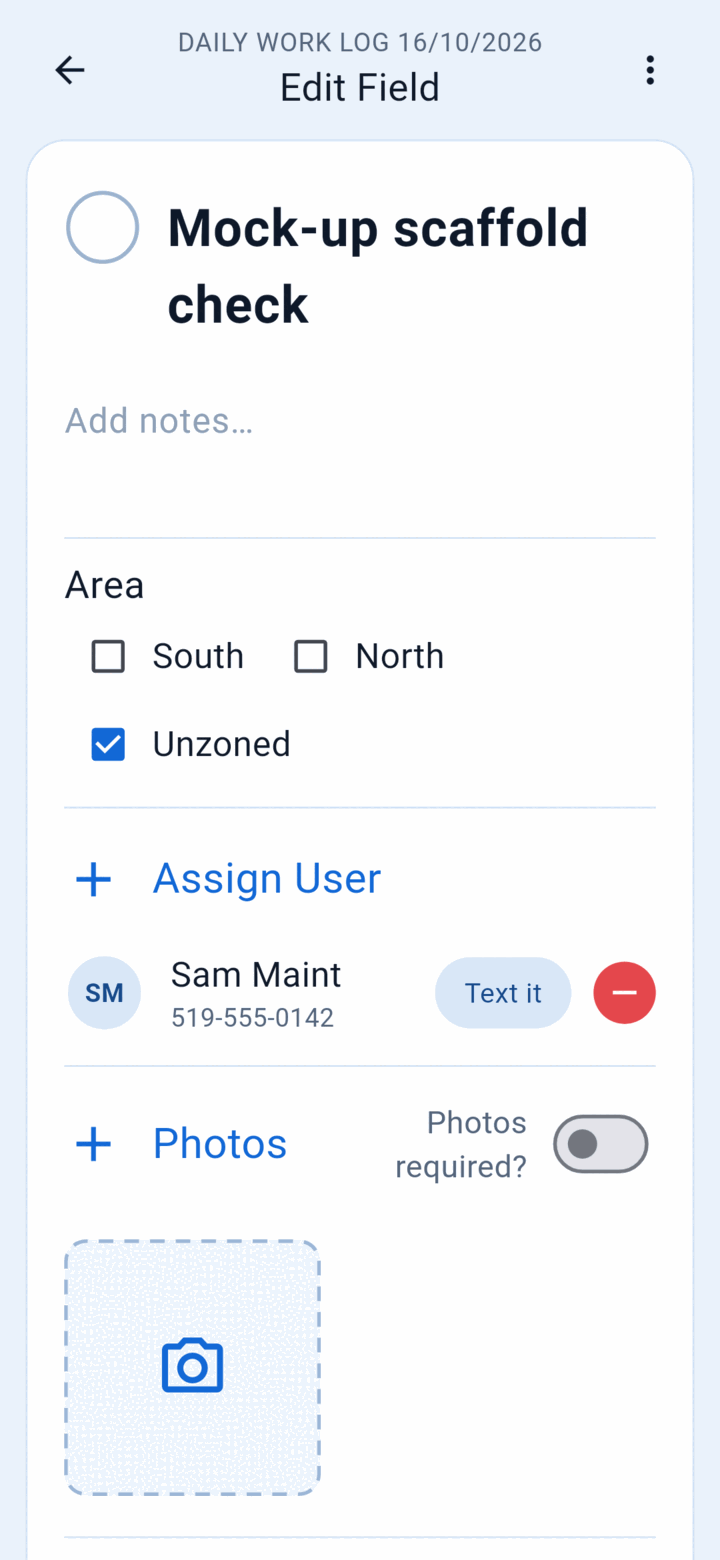
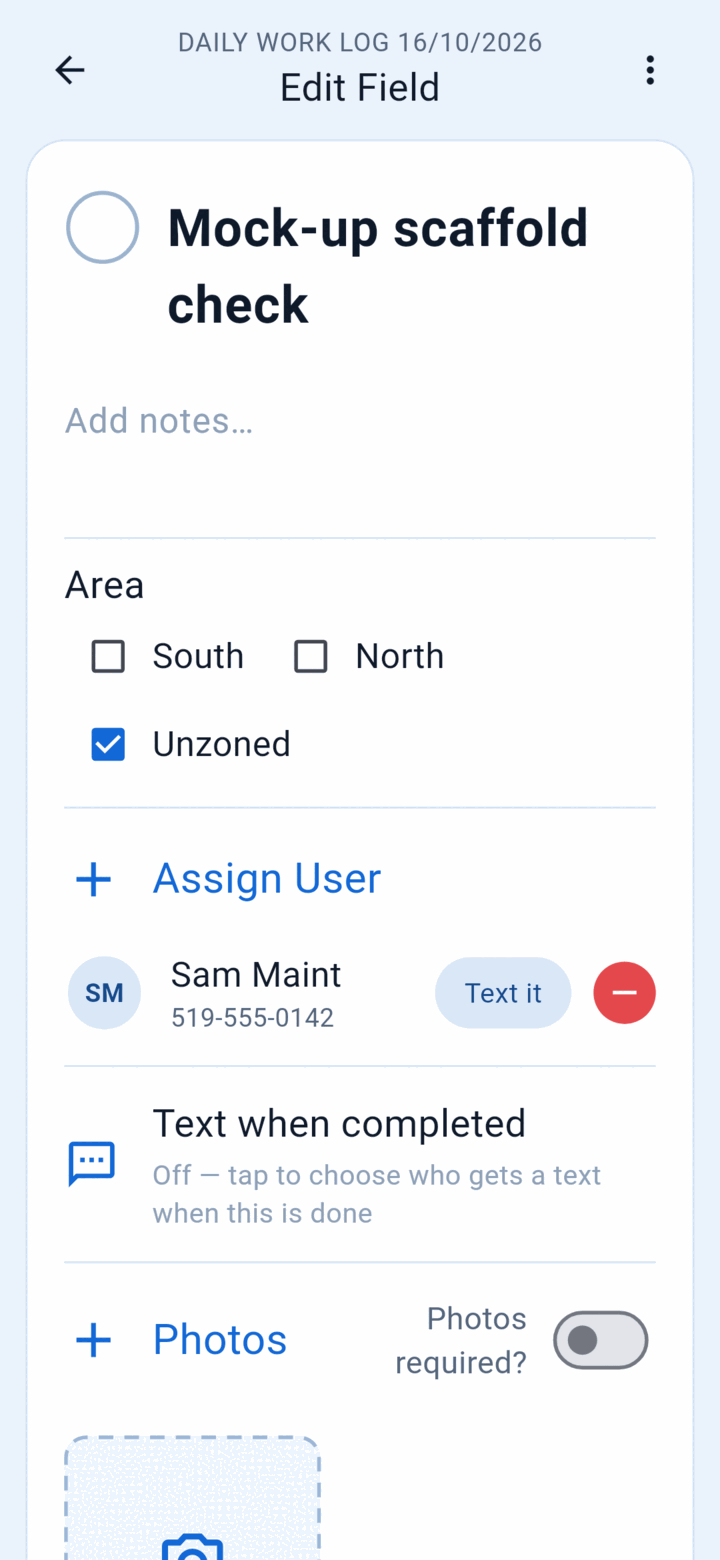
Text when completed and add a field from a text screenshot in both apps; manual topics and screenshots; classic 4.14
Claude-Session: https://claude.ai/code/session_01SU9pkUf5APMbUYgKfLLGdu

diff --git a/mobile/lib/import/import_screen.dart b/mobile/lib/import/import_screen.dart
@@ -336,7 +336,12 @@ class _ImportScreenState extends State<ImportScreen> {
                 overflow: TextOverflow.ellipsis,
                 style: const TextStyle(fontSize: 13, color: C.grey),
               ),
-              Text(texts != null ? 'Add from text' : 'Add fields', style: const TextStyle(fontSize: 21, color: C.navy)),
+              Text(
+                texts != null ? 'Add from text' : 'Add fields',
+                maxLines: 1,
+                overflow: TextOverflow.ellipsis,
+                style: const TextStyle(fontSize: 21, color: C.navy),
+              ),
             ],
           ),
         ),

diff --git a/classic-android/app/src/main/java/com/dailyworklog/app/TaskActivity.java b/classic-android/app/src/main/java/com/dailyworklog/app/TaskActivity.java
@@ -255,7 +255,7 @@ public class TaskActivity extends AppCompatActivity {
             name.setText(task.doneTextName);
             phone.setText(task.doneTextPhone);
         }
-        if (checked < 0) checked = withPhones.isEmpty() ? 999 : -1;
+        if (checked < 0) checked = withPhones.isEmpty() ? 999 : 1000;
         if (checked >= 0) group.check(checked);
         Runnable showOther = () -> {
             int vis = group.getCheckedRadioButtonId() == 999 ? View.VISIBLE : View.GONE;
